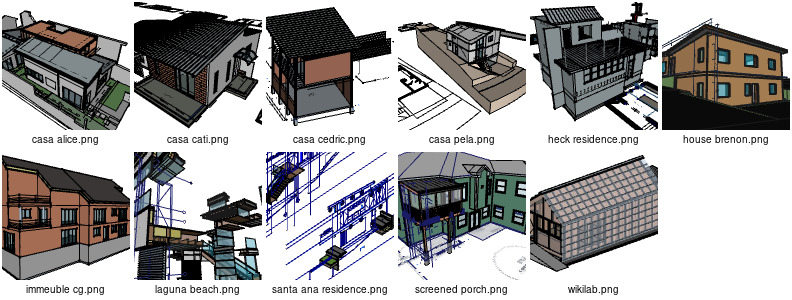
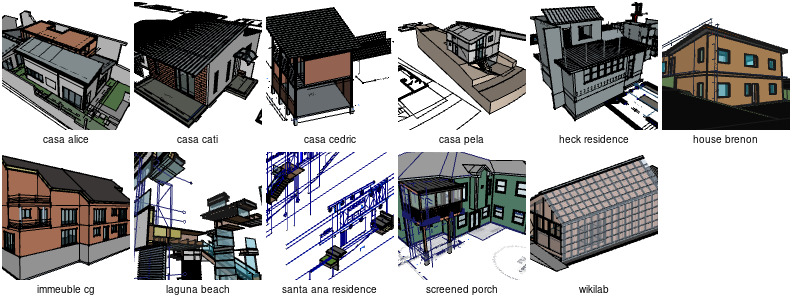
better thumbnails

diff --git a/create_thumbnails.py b/create_thumbnails.py
@@ -32,7 +32,7 @@ for fcstd in [f for f in  os.listdir() if f.endswith(".FCStd")]:
     thumb.close()
     
 # create the montage
-command = "montage -background #ffffff -fill #000000 -label %f -font Helvetica -pointsize 10 -define png:size=128x128 -geometry 128x128+2+2 -auto-orient -tile 6x *.png contact-sheet.jpg"
+command = "montage -background #ffffff -fill #000000 -label %t -font Helvetica -pointsize 10 -define png:size=128x128 -geometry 128x128+2+2 -auto-orient -tile 6x *.png contact-sheet.jpg"
 subprocess.run(command.split(" "))
     
 # delete intermediary files
